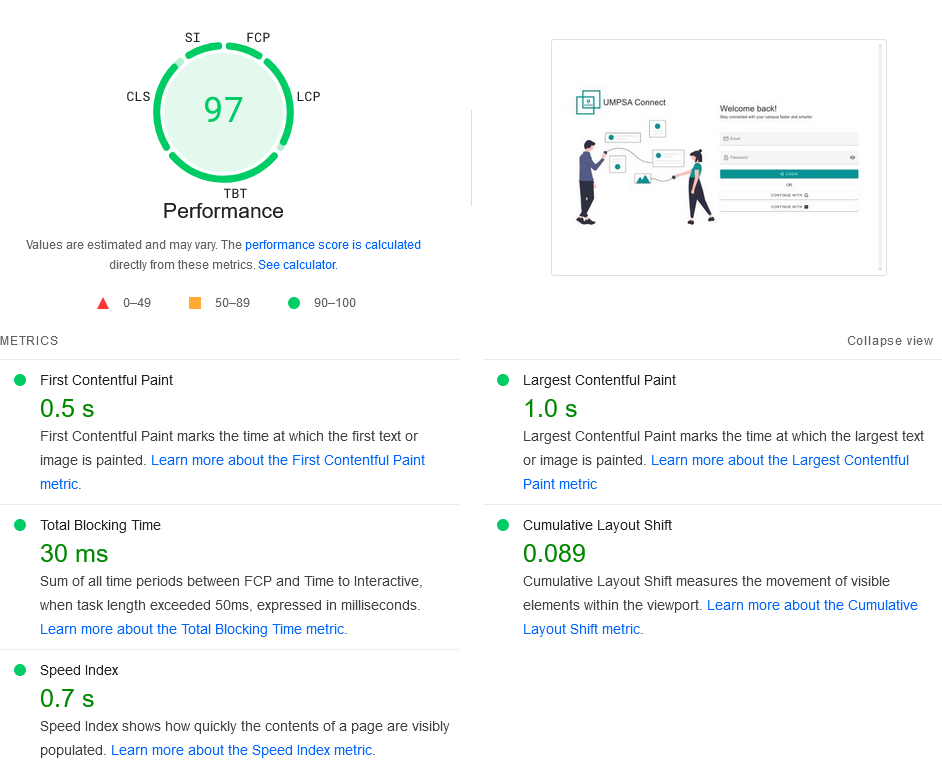
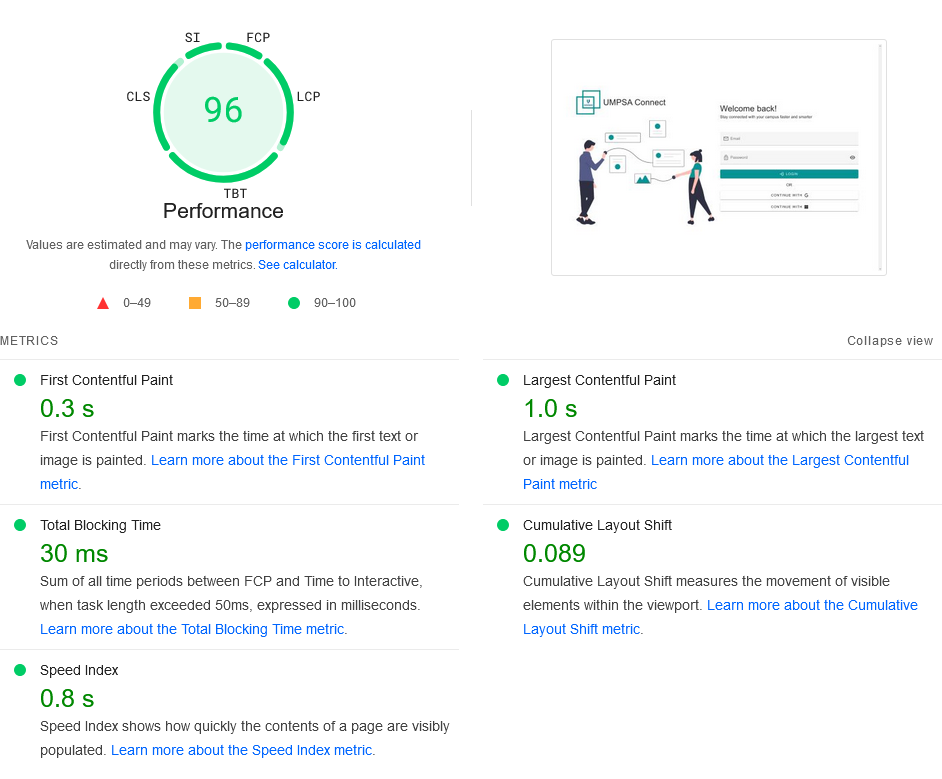
update performance test result

diff --git a/README.md b/README.md
@@ -14,4 +14,4 @@ UMPSA Connect has successfully passed all web security tests on the [Mozilla Dev
 
 ![performance_test.png](public/img/performance_test.png)
 
-UMPSA Connect scored 97 on [Google PageSpeed Insights](https://pagespeed.web.dev/), with key metrics like a First Contentful Paint of 0.5 seconds, Largest Contentful Paint of 1.0 seconds, and a Cumulative Layout Shift of 0.089. For detailed results, view the [Full Analysis Report](https://pagespeed.web.dev/analysis/https-umpsa-connect-vercel-app/6nf9vd6amo?form_factor=desktop).
+UMPSA Connect scored 96 on [Google PageSpeed Insights](https://pagespeed.web.dev/), with key metrics like a First Contentful Paint of 0.3 seconds, Largest Contentful Paint of 1.0 seconds, and a Cumulative Layout Shift of 0.089. For detailed results, view the [Full Analysis Report](https://pagespeed.web.dev/analysis/https-umpsa-connect-vercel-app/s0r87zjvgt?form_factor=desktop).
